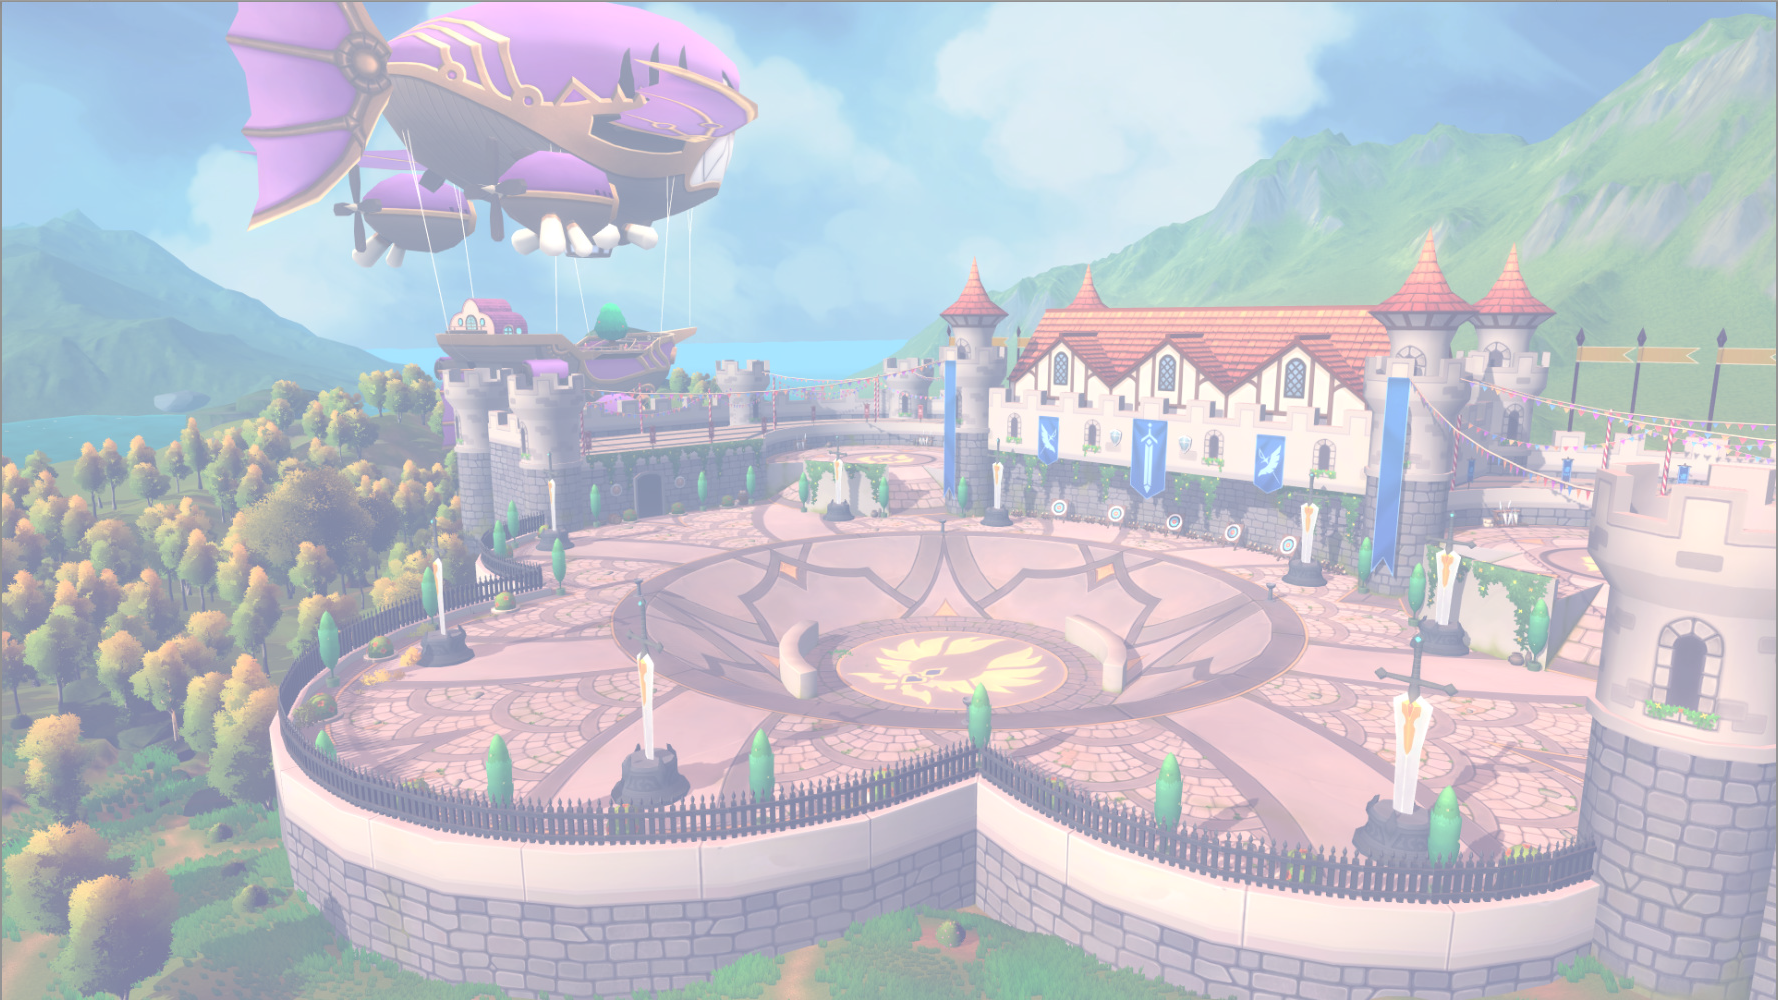
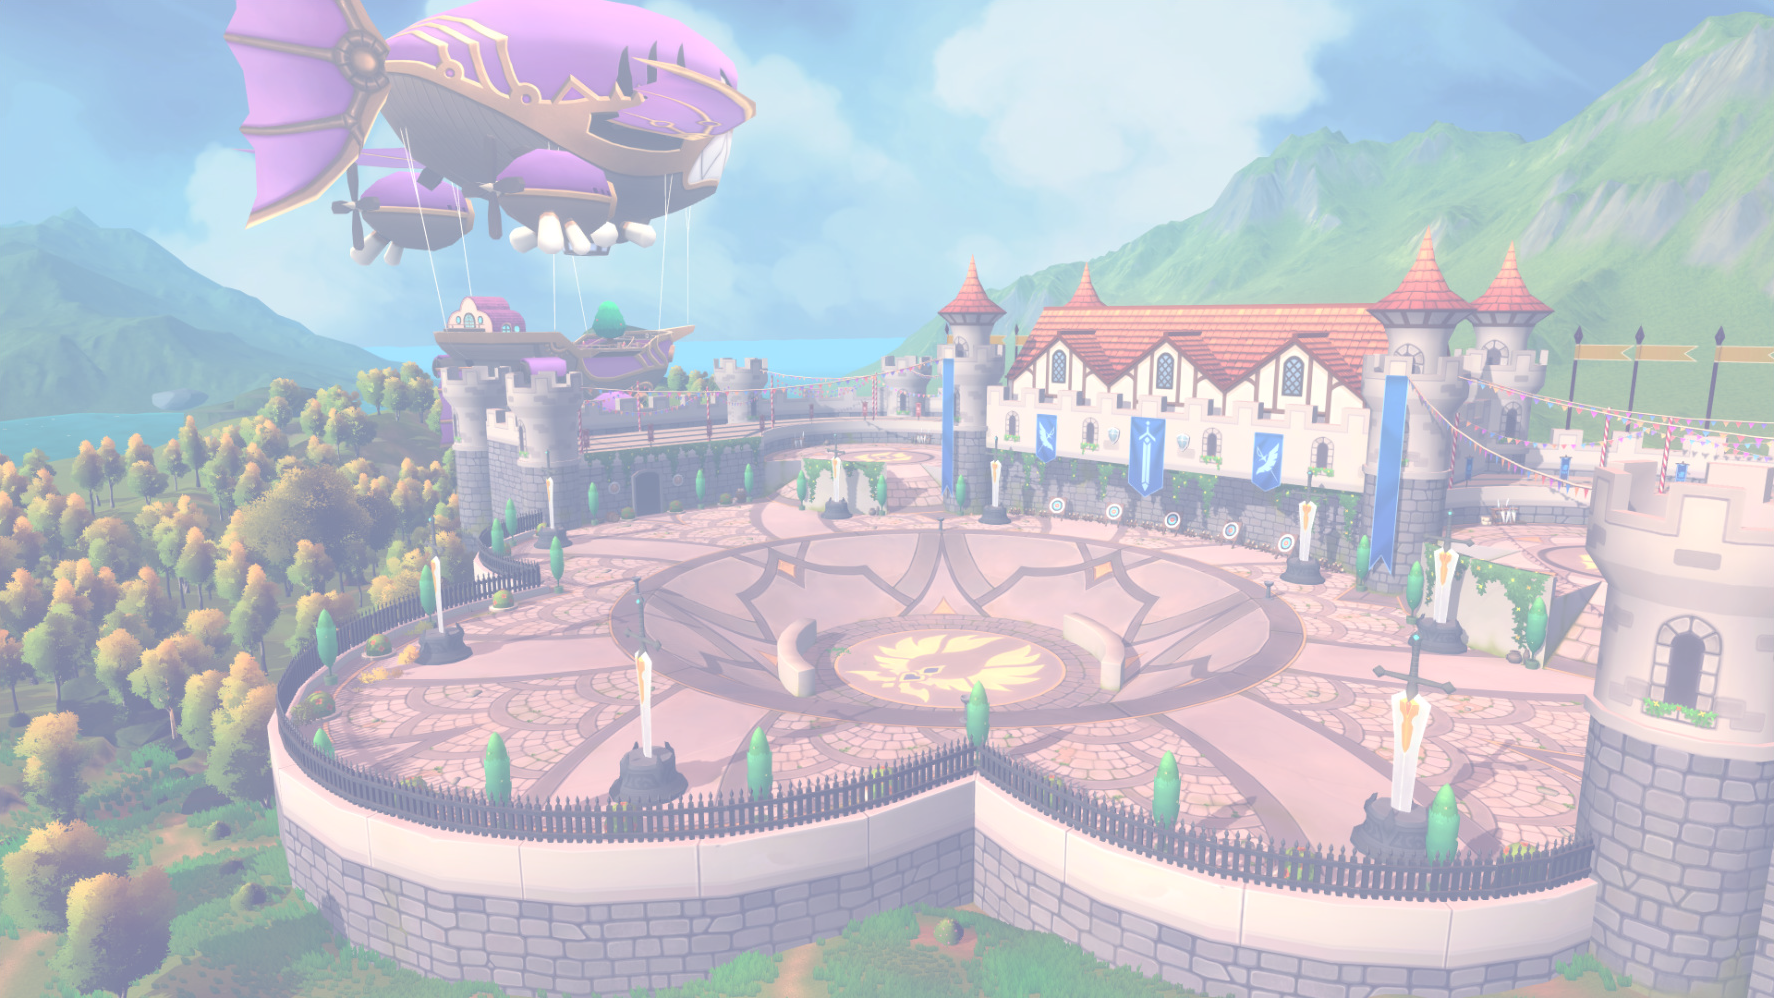
初步測試，scroll加上GreenSock

diff --git a/wwwroot/JavaScript/FrontPage/ScrollMagicSet.js b/wwwroot/JavaScript/FrontPage/ScrollMagicSet.js
@@ -1,9 +1,41 @@
 export function ScrollMagicSet() {
-    var controller = new ScrollMagic.Controller();
+	var flightpath = {
+		entry: {
+			
+			autoRotate: false,
+			values: [
+				{ x: 100, y: 10 },
+			
+				{ x: 200, y: -5},
+			
+				{ x: 300, y: 10 },
+			]
+		},
+		down: {
+			curviness: 1.25,
+			autoRotate: true,
+			values: [
+				{ x: 300, y: 100 },
+			]
+		}
+	
+	};
+	// create tween
+	var tween = new TimelineMax()
+		.add(TweenMax.to($(".airship"),2, { css: { bezier: flightpath.entry }, ease: Power1.easeInOut }))
+		.add(TweenMax.to($(".airship"), 5, { css: { bezier: flightpath.down }, ease: Power1.easeInOut }))
 
+
+    var controller = new ScrollMagic.Controller();
     var scene = new ScrollMagic.Scene({
-        triggerElement: ".redBlock"
+        triggerElement: ".Start-Container",
+        duration: 2000,
+        triggerHook:0     
     })
-    .setClassToggle(".redBlock", "show")
+    //.setClassToggle(".redBlock", "show")  //增加class
+    //增加場景
+    .setTween(tween)
+    .setPin('.Start-Container')
+	.addIndicators({ name: "airship" })
     .addTo(controller);
 }

diff --git a/wwwroot/css/FrontPage/FrontPage_Start.css b/wwwroot/css/FrontPage/FrontPage_Start.css
@@ -1,36 +1,35 @@
-.Start { 
+.Start {
     width: 100%;
-    height: 1024px;
+    height: 3300px; /*Container高度跟動畫高度*/
     padding-top: 47px;
 }
 
 .Start-Container {
     width: 100%;
-    height: 100%;
+    height: 100vh;
     background: url("../../images/FrontPage/Start/S3_SkyBox.webp");
-    background-repeat:round;
+    background-size:cover;
+    position:relative;
+}
+.airship {
+    width: 740px;
+    height: 533px;
+    position: absolute;
+    left:-5%;
+    top:20%;
 }
 
-.block {
+.Start-logo {
     width: 100%;
-    height: 1000px;
-}
-
-.redBlock {
-    width: 0;
-    height: 200px;
-    background: red;
-    font-size: 100px;
-    color: white;
+    height: 418px; 
     display: flex;
     justify-content: center;
     align-items: center;
-    opacity: 0;
-    transition: 1s;
-    margin: 0 auto;
+    position: absolute;
+    left: 0%;
+    top: 20%;
 }
-
-.redBlock.show {
-    opacity: 1;
-    width: 100%;
+.Start-logo img {
+    width: 747px;
+    height: 418px;
 }
